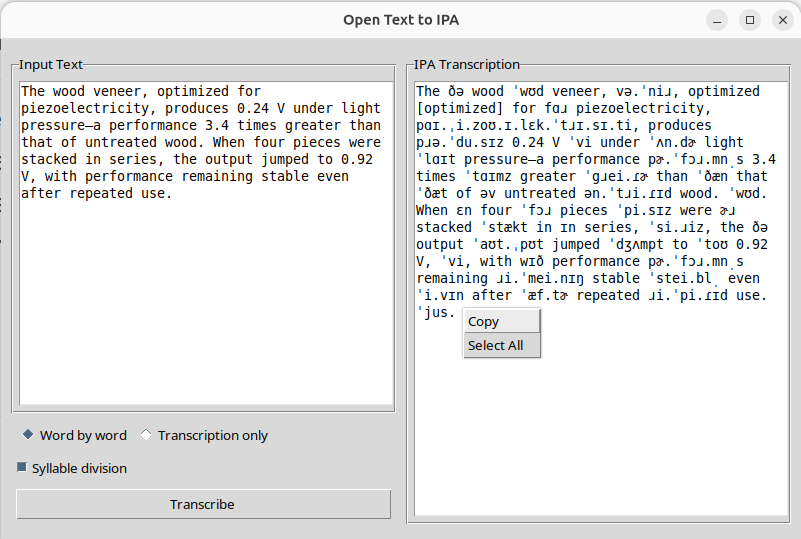
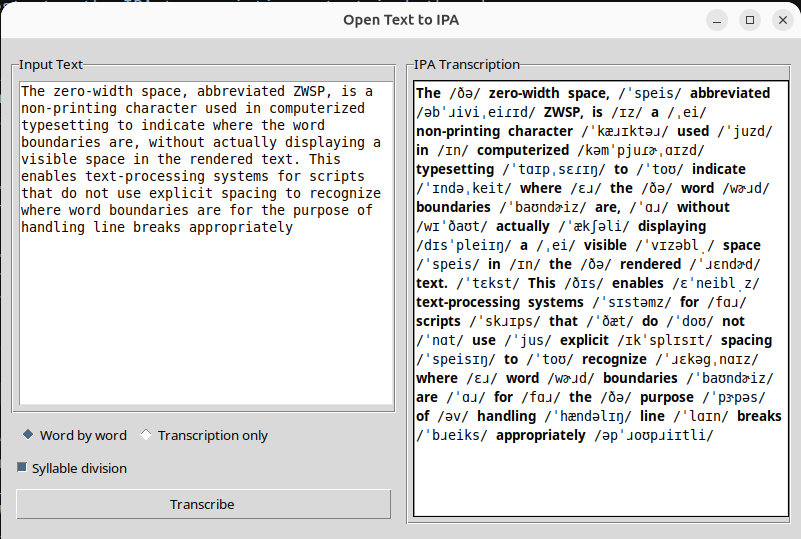
new: alternate output style

Changed region(s): [[0.4994, 0.1484, 0.9988, 0.8312], [0.0, 0.1484, 0.4682, 0.4453], [0.0, 0.0, 1.0, 0.0297]]

diff --git a/main.py b/main.py
@@ -7,14 +7,17 @@ Creates a Tkinter window with a two-panel layout:
 - One 'Transcribe' button below the input area
 """
 
+from html import escape
 from pathlib import Path
 import tkinter as tk
+import tkinter.font as tkfont
 from tkinter import ttk
-from transcriber import transcrever_texto
+from transcriber import transcrever_texto_com_estilos
 
 
-def add_text_context_menu(widget, editable=False):
+def add_text_context_menu(widget, editable=False, copy_command=None):
     menu = tk.Menu(widget, tearoff=False)
+    copy = copy_command or (lambda: widget.event_generate("<<Copy>>"))
 
     if editable:
         menu.add_command(label="Undo", command=lambda: widget.event_generate("<<Undo>>"))
@@ -25,7 +28,7 @@ def add_text_context_menu(widget, editable=False):
         menu.add_command(label="Paste", command=lambda: widget.event_generate("<<Paste>>"))
         menu.add_separator()
 
-    menu.add_command(label="Copy", command=lambda: widget.event_generate("<<Copy>>"))
+    menu.add_command(label="Copy", command=copy)
 
     def select_all():
         widget.tag_add("sel", "1.0", "end-1c")
@@ -35,7 +38,7 @@ def add_text_context_menu(widget, editable=False):
 
     shortcuts = {
         "<Control-a>": select_all,
-        "<Control-c>": lambda: widget.event_generate("<<Copy>>"),
+        "<Control-c>": copy,
     }
     if editable:
         shortcuts.update({
@@ -134,13 +137,16 @@ def main():
         syllabus = syllabus_var.get()
         
         try:
-            result = transcrever_texto(text, mode, syllabus)
+            result = transcrever_texto_com_estilos(text, mode, syllabus)
         except Exception as e:
-            result = f"[erro: {str(e)}]"
+            result = [(f"[erro: {str(e)}]", True)]
 
         output_text.configure(state=tk.NORMAL)
         output_text.delete("1.0", tk.END)
-        output_text.insert(tk.END, result)
+        for fragment, is_non_ipa in result:
+            output_text.insert(
+                tk.END, fragment, "non_ipa" if is_non_ipa else ()
+            )
         output_text.configure(state=tk.DISABLED)
     
     transcribe_button = ttk.Button(
@@ -158,6 +164,9 @@ def main():
     output_text = tk.Text(
         output_frame, wrap=tk.WORD, height=10, width=50, state=tk.DISABLED
     )
+    bold_font = tkfont.nametofont("TkTextFont").copy()
+    bold_font.configure(weight="bold")
+    output_text.tag_configure("non_ipa", font=bold_font)
     output_scrollbar = ttk.Scrollbar(
         output_frame, orient=tk.VERTICAL, command=output_text.yview
     )
@@ -165,8 +174,82 @@ def main():
     output_text.pack(side=tk.LEFT, fill=tk.BOTH, expand=True, padx=(5, 0), pady=5)
     output_scrollbar.pack(side=tk.RIGHT, fill=tk.Y, padx=(0, 5), pady=5)
 
+    clipboard_data = {"plain": "", "html": ""}
+
+    def get_clipboard_chunk(kind, offset, length):
+        offset = int(offset)
+        length = int(length)
+        data_kind = "plain" if kind == "legacy" else kind
+        text = clipboard_data[data_kind][offset:offset + length]
+        encoding = "latin-1" if kind == "legacy" else "utf-8"
+        return text.encode(encoding, errors="replace")
+
+    for target, kind in (
+        ("UTF8_STRING", "plain"),
+        ("STRING", "legacy"),
+        ("text/html", "html"),
+    ):
+        output_text.selection_handle(
+            lambda offset, length, data_kind=kind: get_clipboard_chunk(
+                data_kind, offset, length
+            ),
+            selection="CLIPBOARD",
+            type=target,
+        )
+
+    def copy_output_selection():
+        try:
+            selection_start = output_text.index("sel.first")
+            selection_end = output_text.index("sel.last")
+        except tk.TclError:
+            return
+
+        clipboard_data["plain"] = output_text.get(selection_start, selection_end)
+        html_parts = []
+        cursor = selection_start
+        bold_ranges = output_text.tag_ranges("non_ipa")
+
+        for tag_start, tag_end in zip(
+            bold_ranges[::2],
+            bold_ranges[1::2],
+        ):
+            bold_start = (
+                selection_start
+                if output_text.compare(tag_start, "<", selection_start)
+                else tag_start
+            )
+            bold_end = (
+                selection_end
+                if output_text.compare(tag_end, ">", selection_end)
+                else tag_end
+            )
+            if output_text.compare(bold_start, ">=", selection_end):
+                break
+            if output_text.compare(bold_end, "<=", cursor):
+                continue
+            if output_text.compare(bold_start, "<", cursor):
+                bold_start = cursor
+
+            if output_text.compare(cursor, "<", bold_start):
+                html_parts.append(escape(output_text.get(cursor, bold_start)))
+            if output_text.compare(bold_start, "<", bold_end):
+                bold_text = escape(output_text.get(bold_start, bold_end))
+                html_parts.append(f"<strong>{bold_text}</strong>")
+                cursor = bold_end
+
+        if output_text.compare(cursor, "<", selection_end):
+            html_parts.append(escape(output_text.get(cursor, selection_end)))
+
+        clipboard_data["html"] = (
+            '<html><body><div style="white-space:pre-wrap">'
+            + "".join(html_parts)
+            + "</div></body></html>"
+        )
+        output_text.clipboard_clear()
+        output_text.selection_own(selection="CLIPBOARD")
+
     add_text_context_menu(input_text, editable=True)
-    add_text_context_menu(output_text)
+    add_text_context_menu(output_text, copy_command=copy_output_selection)
     
     # Configure grid weights for resizing
     main_frame.columnconfigure(0, weight=1)

diff --git a/transcriber.py b/transcriber.py
@@ -14,6 +14,7 @@ Core functions:
 """
 
 import re
+import unicodedata
 from pysle.isletool import Isle
 from pysle.utilities.errors import WordNotInIsleError
 
@@ -75,6 +76,60 @@ def ipa_palavra(palavra: str, silabas: bool = False) -> str:
     return prefix + result + suffix
 
 
+def transcrever_texto_com_estilos(
+    texto: str, modo: str = "transcription only", silabas: bool = False
+) -> list[tuple[str, bool]]:
+    """Return output fragments paired with whether they are non-IPA text."""
+    parts = re.split(r"(\s+)", texto)
+    styled_parts = []
+
+    for part in parts:
+        if not part or part.isspace():
+            styled_parts.append((part, False))
+            continue
+
+        ipa = ipa_palavra(part, silabas)
+        word_match = _WORD_PATTERN.fullmatch(part)
+        if word_match:
+            prefix, word, suffix = word_match.groups()
+            if ipa == f"{prefix}[{word}]{suffix}":
+                styled_parts.append((part, True))
+                continue
+        else:
+            prefix = suffix = ""
+
+        if modo == "word by word" and ipa != part:
+            if ipa.startswith("[") and "]" in ipa:
+                ipa = ipa[:ipa.index("]") + 1]
+                ipa_is_transcription = False
+            else:
+                ipa = "".join(
+                    character
+                    for character in ipa
+                    if not unicodedata.category(character).startswith("P")
+                )
+                ipa_is_transcription = True
+            styled_parts.append((part, True))
+            styled_parts.append((" /", False))
+            styled_parts.append((ipa, not ipa_is_transcription))
+            styled_parts.append(("/", False))
+        elif ipa.startswith("[erro:"):
+            styled_parts.append((ipa, True))
+        elif ipa != part and word_match:
+            transcription = ipa[len(prefix):]
+            if suffix:
+                transcription = transcription[:-len(suffix)]
+            styled_parts.extend((
+                (prefix, True),
+                (transcription, False),
+                (suffix, True),
+            ))
+        else:
+            styled_parts.append((ipa, True))
+
+    return styled_parts
+
+
 def transcrever_texto(texto: str, modo: str = "transcription only", silabas: bool = False) -> str:
     """
     Orchestrates the IPA transcription output in both modes.
@@ -88,21 +143,12 @@ def transcrever_texto(texto: str, modo: str = "transcription only", silabas: boo
     Returns:
         The formatted output string based on the selected mode.
     """
-    parts = re.split(r"(\s+)", texto)
-    output_parts = []
-
-    for part in parts:
-        if not part or part.isspace():
-            output_parts.append(part)
-            continue
-
-        ipa = ipa_palavra(part, silabas)
-        if modo == "word by word" and ipa != part:
-            output_parts.append(f"{part} {ipa}")
-        else:
-            output_parts.append(ipa)
-
-    return "".join(output_parts)
+    return "".join(
+        fragment
+        for fragment, _is_non_ipa in transcrever_texto_com_estilos(
+            texto, modo, silabas
+        )
+    )
 
 
 if __name__ == "__main__":

diff --git a/README.md b/README.md
@@ -47,7 +47,7 @@ PySLE’s bundled pronunciation data is the ISLE dictionary. See the [ISLEX proj
 
 1. Paste English text into the left text area.
 2. Choose a transcription mode (the default is **Word by word**):
-   - **Word by word**: Each word and its IPA transcription appear together on the same line
+   - **Word by word**: Each original word is followed by its IPA transcription in `/slashes/`; punctuation and syllable dots are omitted from the IPA
    - **Transcription only**: A single continuous IPA line for the whole text
 3. "Syllable division" is enabled by default; uncheck it to remove dot separators between syllables.
 4. Click "Transcribe" to convert the text to IPA.
@@ -55,14 +55,15 @@ PySLE’s bundled pronunciation data is the ISLE dictionary. See the [ISLEX proj
    - **Ctrl+A**: Select all
    - **Ctrl+C / Ctrl+X / Ctrl+V**: Copy / cut / paste
    - **Ctrl+Z / Ctrl+Y**: Undo / redo
-6. In the output, **Ctrl+A** selects all and **Ctrl+C** copies the selection. Right-click either text area for its available editing actions.
+6. In the output, **Ctrl+A** selects all and **Ctrl+C** copies the selection. Bold formatting is included when pasting into rich-text apps; plain-text apps receive unformatted text. Right-click either text area for its available editing actions.
 
 ## Features
 
 - **Long text support**: Scrollable input and transcription panels for longer passages
 - **Preserved formatting**: Existing spaces and line breaks are kept in the transcription
+- **Readable output**: Original text is bolded to distinguish it from IPA
 - **Stress marking**: Stressed syllables are always marked with `ˈ` or `ˌ`
-- **Error handling**: Unknown words are shown in brackets `[word]`
+- **Unknown words**: Original words are kept without bracketed IPA placeholders
 - **Offline**: Uses PySLE locally; no AI service or network connection is used at runtime
 - **Cache**: In-memory cache prevents repeated lookups in the same session
 
